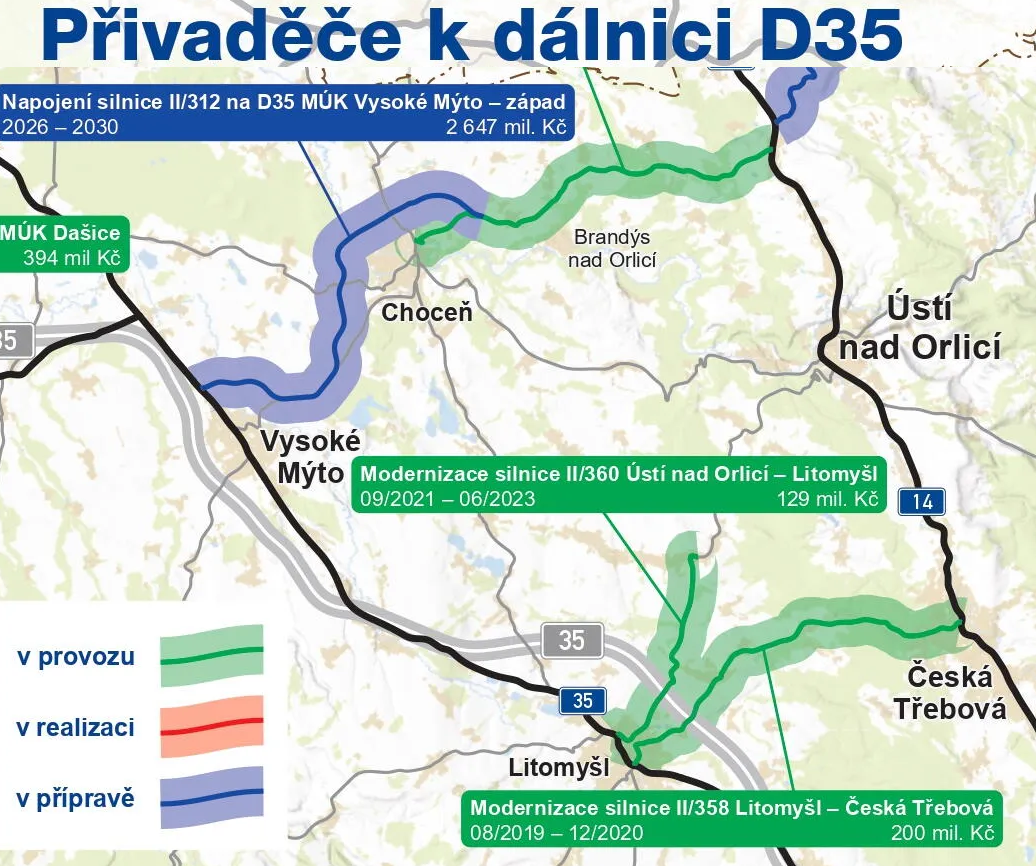
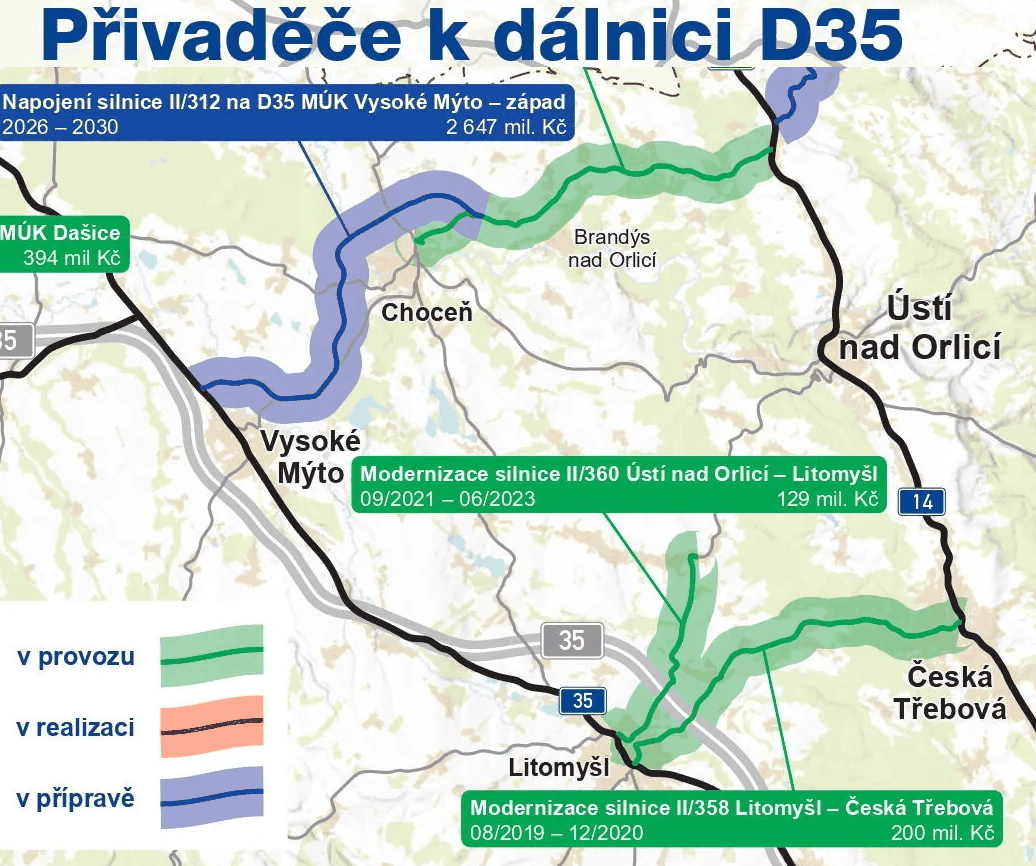
komentare: size the Lilie photographs for the web
The figures went up at their original camera sizes — 14 MB in total, the
worst a 4032x3024 JPEG at 4.2 MB, and two photographs stored as PNG. That
is a slow page on a phone for no gain, since they render at most a column
wide.

Photographs are now capped at 1800px and saved as progressive JPEG q85;
the two PNG photographs became JPEG and their records were repointed. The
D35 map stays PNG, being line art and text, but quantised to 256 colours:
1217 KB to 439 KB with no visible change — checked by eye, not assumed.

14 MB to 4.2 MB. Dimensions are read from the file header at build time,
so the width and height attributes followed automatically.

Changed region(s): [[0.1853, 0.8106, 0.2471, 0.8418], [0.9884, 0.0312, 1.0, 0.0624], [0.1544, 0.8418, 0.1853, 0.873]]

diff --git a/komentare/litomysl-ruze-u-fary/index.html b/komentare/litomysl-ruze-u-fary/index.html
@@ -45,7 +45,7 @@
    "isBasedOn": "https://www.litomysl.cz/lilie/download/2026",
    "description": "Chtěl bych tímto poděkovat všem, kteří se starají o žluté růže pod farou. Tomu záhonu věnovala hodně úsilí moje babička Marie Lorencová. Děkuji též kolegům z městského úřadu, že nám…",
    "image": [
-    "https://meta-analysis.cz/komentare/item-img/2026-07_lavicka-ruze.png"
+    "https://meta-analysis.cz/komentare/item-img/2026-07_lavicka-ruze.jpg"
    ]
   }
  ]
@@ -72,7 +72,7 @@
 <p>Chtěl bych tímto poděkovat všem, kteří se starají o žluté růže pod farou. Tomu záhonu věnovala hodně úsilí moje babička Marie Lorencová. Děkuji též kolegům z městského úřadu, že nám umožnili jako vzpomínku na ni umístit u růží lavičku (kterou vymysleli a nechali vyrobit Iva a Leoš Tupcovi). Je to už více než 3 roky, co babička zemřela. Místo je ale pořád stejně krásné. Sluší se připomenout, co o něm psala babička před lety:</p>
 <blockquote><p>Před 26 lety byli vysláni, aby spravovali naši farnost, dva kněží – otec František Beneš a otec Jiří Štorek. Převzali zpustlý, více než 70 let neopravovaný kostel a podobně zpustlou farní zahradu. Byli ještě mladí a zdraví; nezalekli se toho, co je čeká. Otec František začal hned shánět vše, co bylo třeba zařídit. K tomu vždy jako první nabídl své vlastní pracovité ruce. Přidali se další ochotní a obětaví farníci a opravy kostela i fary se rozběhly.</p><p>Také farní zahrada se proměnila z džungle v užitnou. Otec František vlastnoručně za pomoci pana Mikysky vykopal nehezká křoviska pod zdí farní zahrady, na pozemku města Litomyšle. Po odklizení těchto křovisek se objevil kdysi označený široký záhon. Ten přímo vyzýval k tomu, aby do záhonu byly vysázeny rostliny pro krásu i radost kolemjdoucích. Přidalo se několik dalších pracovitých rukou, staraly se o zahradu, vypěstovaly na ní mimo jiné sadové žluté růže jménem lichtkönigin lucia a vysázely jich dlouhou řadu do záhonu pod zdí farní zahrady; také řadu narcisů, tulipánů i kosatců.</p><p>Tak, jak rozkvétal při opravách kostel, farní budova i zahrada, rozkvetl i záhon pod zdí farní zahrady. Jako první po konci zimy a pro radost kolemjdoucím vykvetl záhon krásných jarních květin a v čase, kdy probíhá festival Smetanova Litomyšl, vykvetla pokaždé v plné kráse dlouhá řada žlutých růží. Je to pastva pro oči každého, kdo kolem prochází, a návštěvníci si záhon s farou často fotí.</p><p>Za těch 26 roků jsme zestárli i my, kteří jsme se s radostí a láskou o záhon starali, a naše síly jsou po 85 letech života téměř u konce. Předáváme tento záhon, který je nyní okopán a ošetřen tak, jak to rostliny vyžadují, do péče majitele pozemku, města Litomyšle. Věříme, že ti, kteří se v našem krásném městě starají o zeleň, budou o tento záhon pečovat dále.</p><p>Za všechny, kteří přiložili ruku k tomuto dílu, Marie Lorencová, rozená Kudrnová.</p></blockquote>
         <figure class="item-fig">
-          <img src="/komentare/item-img/2026-07_lavicka-ruze.png" alt="Modrošedá dřevěná lavička u kamenné zdi, obrostlá keři žlutých růží. Na opěradle je připevněná kovová růže, do sedáku je vyryto „ML 1932–2023“." loading="lazy" decoding="async" width="1858" height="836">
+          <img src="/komentare/item-img/2026-07_lavicka-ruze.jpg" alt="Modrošedá dřevěná lavička u kamenné zdi, obrostlá keři žlutých růží. Na opěradle je připevněná kovová růže, do sedáku je vyryto „ML 1932–2023“." loading="lazy" decoding="async" width="1800" height="810">
         </figure>
       </div>
       <div class="provenance"><p>Poprvé vyšlo v Lilii, měsíčníku města Litomyšle červenec 2026. <a href="https://www.litomysl.cz/lilie/download/2026" rel="external">Původní vydání</a>. Text byl přepsán z tištěného vydání.</p></div>

diff --git a/komentare/litomysl-narodni-liga/index.html b/komentare/litomysl-narodni-liga/index.html
@@ -45,7 +45,7 @@
    "isBasedOn": "https://www.litomysl.cz/soubor/17147377592866666_lilie_2024_5.pdf",
    "description": "Za více než čtvrtstoletí své existence nezažila naše krásná sportovní hala větší zápas než o letošním Velikonočním pondělí. V rozhodující páté bitvě série a za ohlušujícího hukotu přemohli…",
    "image": [
-    "https://meta-analysis.cz/komentare/item-img/2024-05_narodni-liga.jpeg"
+    "https://meta-analysis.cz/komentare/item-img/2024-05_narodni-liga.jpg"
    ]
   }
  ]
@@ -77,7 +77,7 @@
 <p>Od začátku musel mít správce strach, aby hala ještě v úterý ráno stála. Tolik lidí a decibelů v ní nikdy nebylo. Šli jsme do vedení, ale Kadaň záhy otočila na 1:2. Rozhodující moment přišel na konci druhé třetiny, kdy rozhodčí proti nám nařídil trestné střílení. Brankář Jonáš Moravec však předvedl životní zákrok a udržel Litomyšl ve hře. Obrat ve třetí třetině zařídili hlavně naši nejproduktivnější útočníci celého play-off. Nejprve ve 43. minutě Štěpán Švec z výběhu vyrovnal. Potom ve 53. minutě nás Ondřej Pakosta přesnou ranou dostal do vedení. O 3 minuty později na obrovského brankáře Kadaně vyzrál v trestném střílení Michael Smola. Všichni jsme pořád měli v paměti sobotní výbuch z Kadaně. Hráči však bojovali s nadlidským nasazením a přidali ještě 3 góly do prázdné branky. Litomyšl vítězí 7:2!</p>
 <p>I budoucnost florbalu v Litomyšli vypadá skvěle. Třeba: dorostenci letos ovládli II. ligu; přípravka v 60 zápasech prohrála jediný. S postupem do Národní ligy bychom však měli opravit dluh vůči naší hale: informační tabule je ostudně prastará. Nejhorší v celé divizi, což komentovali i rozhodčí a hráči soupeře. Sestoupivší Třebíč, kde se v hale se nikdy nesejde víc než 200 lidí, má velkoplošnou obrazovku s promítáním gólů a profilů hráčů. Důstojnou obrazovku, AI kameru a modernizaci vybavení haly využijí i basketbalisté, volejbalisté a další sportovci.</p>
         <figure class="item-fig">
-          <img src="/komentare/item-img/2024-05_narodni-liga.jpeg" alt="Litomyšlští florbalisté slaví na palubovce postup; za nimi je plná tribuna fanoušků a na zábradlí visí červená vlajka s litomyšlskou lilií." loading="lazy" decoding="async" width="4032" height="3024">
+          <img src="/komentare/item-img/2024-05_narodni-liga.jpg" alt="Litomyšlští florbalisté slaví na palubovce postup; za nimi je plná tribuna fanoušků a na zábradlí visí červená vlajka s litomyšlskou lilií." loading="lazy" decoding="async" width="1800" height="1350">
         </figure>
       </div>
       <div class="provenance"><p>Poprvé vyšlo v Lilii, měsíčníku města Litomyšle květen 2024. <a href="https://www.litomysl.cz/soubor/17147377592866666_lilie_2024_5.pdf" rel="external">Původní vydání</a>. Text byl přepsán z tištěného vydání.</p></div>

diff --git a/komentare/litomysl-florbaliste-zlati-na-turnaji/index.html b/komentare/litomysl-florbaliste-zlati-na-turnaji/index.html
@@ -45,7 +45,7 @@
    "isBasedOn": "https://www.litomysl.cz/soubor/17701067126980528_lilie_2026_2.pdf",
    "description": "Každý leden se v Praze koná turnaj Prague Floorball Cup; na letošní sedmý ročník přijelo přes čtyři tisíce hráčů ze šesti zemí. Rozsahem se jedná o největší a kvalitou nejprestižnější…",
    "image": [
-    "https://meta-analysis.cz/komentare/item-img/2026-02_florbal-pfc-zlato.png"
+    "https://meta-analysis.cz/komentare/item-img/2026-02_florbal-pfc-zlato.jpg"
    ]
   }
  ]
@@ -76,7 +76,7 @@
 <p>Následovali hlavní favorité: Plzeň a Bohemians. Oba týmy jsme znali z minulých let a zatím se nám je nepodařilo porazit. Plzeň hrála tvrdě a krásně vyhrocený zápas jsme zlomili až v posledních minutách. Ani Bohemka nám ve finále nic nedarovala. Ve skvělé atmosféře plné haly jsme si ale vypracovali dvougólový náskok, udrželi ho až do konce a mohli zvednout nad hlavu trofej pro vítěze turnaje.</p>
 <p>Florbal v Litomyšli si můžete kdykoli nezávazně vyzkoušet. Tréninky pro kluky i holky do 10 let jsou v úterý v 15:00 a v pátek ve 13:30 hodin; pro starší děti v pondělí 15:30, středu 15:30, pátek 15:00 hodin. Vždy v městské sportovní hale (za modrou školou). Stačí si přinést sálové boty, pití, kraťasy, tričko. Florbalku trenéři půjčí a též moje děti vás tam rády uvidí.</p>
         <figure class="item-fig">
-          <img src="/komentare/item-img/2026-02_florbal-pfc-zlato.png" alt="Sedm mladých florbalistů v modrých dresech Litomyšle se zlatými medailemi na krku pózuje v hale; drží diplom a zlatou plaketu turnaje PFC." loading="lazy" decoding="async" width="1242" height="993">
+          <img src="/komentare/item-img/2026-02_florbal-pfc-zlato.jpg" alt="Sedm mladých florbalistů v modrých dresech Litomyšle se zlatými medailemi na krku pózuje v hale; drží diplom a zlatou plaketu turnaje PFC." loading="lazy" decoding="async" width="1242" height="993">
         </figure>
       </div>
       <div class="provenance"><p>Poprvé vyšlo v Lilii, měsíčníku města Litomyšle únor 2026. <a href="https://www.litomysl.cz/soubor/17701067126980528_lilie_2026_2.pdf" rel="external">Původní vydání</a>. Text byl přepsán z tištěného vydání.</p></div>

diff --git a/komentare/litomysl-mladi-florbaliste/index.html b/komentare/litomysl-mladi-florbaliste/index.html
@@ -76,7 +76,7 @@
 <p>Přípravku prověřil až turnaj Prague Floorball Cup. Skupinu vyhráli, i když se pořádně nadřeli proti pražským týmům Chodov a Butchis. Ve finálové skupině už po boji nestačili na Bratislavu a Olomouc, a berou tak cenný bronz. Turnaj ukázal, že nejmladší florbalisté Litomyšle se mohou směle měřit se špičkovými týmy střední Evropy. Přidají-li ještě v tréninku, mohou se odvážit na nejtěžší světový turnaj dětí ve Švédsku. Kdo si chce florbal vyzkoušet, má šanci na zářijových trénincích. V Litomyšli dává dětem florbal příležitost utkávat se s týmy z celé republiky i zahraničí. Florbal hrají i holky: naše Lucinka v 6 letech odehrála hromadu turnajů a dala za Litomyšl i nějaké góly. S florbalem není problém začít i později, třeba až ve 12 letech.</p>
 <p>Florbalisté vyhlíží novou sezonu, v níž budou muži poprvé hrát národní ligu. Tam je snem litomyšlského fanouška vidět jednou hrát spolu v dresu s lilií před bouřící plnou halou naše nejslavnější odchovance: bratry Pakostovy. Dočkáme se? Ondřej se lvím podílem zasloužil o postup do „národky“. Přemek, držitel bronzové medaile z mistrovství světa juniorů, byl v uplynulé sezoně kapitánem superligových Pardubic. Těšíme se ale také na další úspěchy naší mládeže od přípravky po juniory!</p>
         <figure class="item-fig">
-          <img src="/komentare/item-img/2024-06_florbal-bronz.jpg" alt="Nejmladší florbalisté s bronzovými medailemi na krku stojí v trávě vedle velkého průsvitného písmene G a společně zvedají nad hlavu kovovou trofej." loading="lazy" decoding="async" width="2000" height="1334">
+          <img src="/komentare/item-img/2024-06_florbal-bronz.jpg" alt="Nejmladší florbalisté s bronzovými medailemi na krku stojí v trávě vedle velkého průsvitného písmene G a společně zvedají nad hlavu kovovou trofej." loading="lazy" decoding="async" width="1800" height="1201">
           <figcaption>Foto: pořadatelé turnaje</figcaption>
         </figure>
       </div>

diff --git a/komentare/litomysl-ohlednuti-za-rokem-florbalu/index.html b/komentare/litomysl-ohlednuti-za-rokem-florbalu/index.html
@@ -75,7 +75,7 @@
 <p>V minulém roce též prvně v historii začali hrát mladší žáci (kluci a holky pod 13 let) florbal na velkém hřišti s pěti hráči v poli. Přechod na 5+1 už v mladším věku je světovým trendem, umožňuje rychlejší individuální rozvoj hráčů a pro diváky přidává na atraktivitě. Náš tým jako nováček začínal v nejnižším výkonnostním koši ligy, ale postupně se propracoval až do druhého nejvyššího.</p>
 <p>Píšu o florbale, neb florbal hrají mé děti. Mám ale radost, že i další sporty u nás jsou skvěle vedeny (sleduji basket, volejbal, hokej, atletiku, fotbal). Na tak malé město mají děti bohatý výběr. Kluby spolupracují a nevyčítají si přestupy a peníze, jak to známe odjinud. Děkuji všem, kdo pomáhají dětem sportovat. Jinak děti přicházejí o návyky disciplíny, práce v týmu, euforii z vítězství, skousnutí porážky, zdravý tělesný vývoj. Přeji všem litomyšlským sportům, aby se jim letos podařilo přilákat víc hráčů.</p>
         <figure class="item-fig">
-          <img src="/komentare/item-img/2025-01_florbal-tym-u-branky.jpg" alt="Skupinové foto litomyšlského florbalového týmu v modrých dresech s bílou lilií. Hráči klečí a stojí před brankou v hale, kolem nich leží florbalové hole." loading="lazy" decoding="async" width="2200" height="1437">
+          <img src="/komentare/item-img/2025-01_florbal-tym-u-branky.jpg" alt="Skupinové foto litomyšlského florbalového týmu v modrých dresech s bílou lilií. Hráči klečí a stojí před brankou v hale, kolem nich leží florbalové hole." loading="lazy" decoding="async" width="1800" height="1176">
           <figcaption>Tutéž fotografii autor poslal i k příspěvku z října 2025.</figcaption>
         </figure>
       </div>

diff --git a/komentare/litomysl-podporme-mlade-florbalisty/index.html b/komentare/litomysl-podporme-mlade-florbalisty/index.html
@@ -83,7 +83,7 @@
 <p>Ať už se děti rozhodnou pro jakýkoli sport a vydrží u něj, bude to nenahraditelná investice do jejich dalšího života. Obzvláště to platí u sportů kolektivních, kde se učí pracovat v týmu. Sportovní kolektiv má na děti dobrý vliv: konkrétně u florbalové party mohu garantovat, že třeba s návykovými látkami nebudou problémy ani ve starších kategoriích.</p>
 <p>V Litomyšli je nabídka kvalitních sportovních kroužků veliká – kromě florbalu mám dobré zkušenosti a mohu doporučit plavání, volejbal, basket, hokej, fotbal. Povede-li se motivovat k pravidelnému sportování alespoň třetinu dětí v Litomyšli, které dosud volný čas tráví hlavně s mobilem v ruce, budeme mít silné týmy ve všech sportech a hlavně zdravější novou generaci s pevným vztahem k našemu městu.</p>
         <figure class="item-fig">
-          <img src="/komentare/item-img/2025-01_florbal-tym-u-branky.jpg" alt="Skupinové foto litomyšlského florbalového týmu v modrých dresech s bílou lilií. Hráči klečí a stojí před brankou v hale, kolem nich leží florbalové hole." loading="lazy" decoding="async" width="2200" height="1437">
+          <img src="/komentare/item-img/2025-01_florbal-tym-u-branky.jpg" alt="Skupinové foto litomyšlského florbalového týmu v modrých dresech s bílou lilií. Hráči klečí a stojí před brankou v hale, kolem nich leží florbalové hole." loading="lazy" decoding="async" width="1800" height="1176">
         </figure>
       </div>
       <div class="provenance"><p>Poprvé vyšlo v Lilii, měsíčníku města Litomyšle říjen 2025. <a href="https://www.litomysl.cz/soubor/17593270283792379_lilie_2025_10.pdf" rel="external">Původní vydání</a>. Text byl přepsán z tištěného vydání.</p></div>

diff --git a/komentare/litomysl-florbal-2025/index.html b/komentare/litomysl-florbal-2025/index.html
@@ -75,7 +75,7 @@
 <p>Děkuji rodičům a přátelům za podporu, a to i na domácích turnajích. Turnaje mládeže v Litomyšli mají bez přehánění atmosféru podobnou zápasům nejvyšší ligy mužů. Přijďte se někdy podívat a zakřičet si LIIIIII-TO-MYYŠL! Bubny budou připraveny, termíny naleznete na facebookové stránce Florbalu Litomyšl. V kiosku je k dispozici občerstvení včetně dobrého piva (díky Michale!). Florbalisté rádi mezi sebe přivítají nové členy jakéhokoli věku; v září bude řada možností si hru vyzkoušet.</p>
 <p>Děkuji Petru Stolínovi, který nově (a skvěle) trénuje dorostence. Děkuji také paní ředitelce 3. základní školy a správcům haly za trpělivost s florbalisty a celkově dobrou práci, kterou oceňují návštěvníci turnajů z celé republiky.</p>
         <figure class="item-fig">
-          <img src="/komentare/item-img/2025-05_florbal-vlajka.jpg" alt="Florbalisté Litomyšle v modrých dresech pózují venku před budovou; uprostřed drží červenou vlajku s bílou litomyšlskou lilií." loading="lazy" decoding="async" width="2682" height="1783">
+          <img src="/komentare/item-img/2025-05_florbal-vlajka.jpg" alt="Florbalisté Litomyšle v modrých dresech pózují venku před budovou; uprostřed drží červenou vlajku s bílou litomyšlskou lilií." loading="lazy" decoding="async" width="1800" height="1197">
         </figure>
       </div>
       <div class="provenance"><p>Poprvé vyšlo v Lilii, měsíčníku města Litomyšle květen 2025. <a href="https://www.litomysl.cz/soubor/17461763345065400_lilie_2025_5.pdf" rel="external">Původní vydání</a>. Text vychází z autorova rukopisu; tištěná verze se může v detailech lišit.</p></div>

diff --git a/komentare/litomysl-prague-floorball-cup/index.html b/komentare/litomysl-prague-floorball-cup/index.html
@@ -76,7 +76,7 @@
 <p>V dalším zápase jsme si v odvetě poradili s Chodovem 3:0. Čekaly nás České Budějovice, proti kterým si kluci s chutí zastříleli. Ale minutu před koncem přišla zpráva, že Lotyši nečekaně vysoko porazili Chodov. V tu chvíli jsme vedli 7:1 a potřebovali k 5. místu další gól. Naskočila speciální formace. Rozhodující gól vstřelil vteřinky před koncem z úniku Fíla!</p>
 <p>Na turnaj pojedeme zase v květnu. Opět budeme ze všech klubů reprezentovat nejmenší město, které ale máme nejradši.</p>
         <figure class="item-fig">
-          <img src="/komentare/item-img/2025-02_florbal-vlajky-zemi.jpg" alt="Litomyšlští florbalisté slaví v hale s holemi zdviženými nad hlavu. Na stěně za nimi visí vlajky Lotyšska, Polska, Slovenska, Česka, Německa a Rakouska." loading="lazy" decoding="async" width="2548" height="1723">
+          <img src="/komentare/item-img/2025-02_florbal-vlajky-zemi.jpg" alt="Litomyšlští florbalisté slaví v hale s holemi zdviženými nad hlavu. Na stěně za nimi visí vlajky Lotyšska, Polska, Slovenska, Česka, Německa a Rakouska." loading="lazy" decoding="async" width="1800" height="1217">
         </figure>
       </div>
       <div class="provenance"><p>Poprvé vyšlo v Lilii, měsíčníku města Litomyšle únor 2025. <a href="https://www.litomysl.cz/soubor/17383139261602303_lilie_2025_2.pdf" rel="external">Původní vydání</a>. Text byl přepsán z tištěného vydání.</p></div>

diff --git a/komentare/src/2026-07-01_litomysl-ruze-u-fary.md b/komentare/src/2026-07-01_litomysl-ruze-u-fary.md
@@ -11,7 +11,7 @@ byline: "Tomáš Havránek"
 source: "image"
 word_count: "391"
 body_note: "Rubrika Dopisy čtenářů. Delší citovaná pasáž je text babičky autora, Marie Lorencové, rozené Kudrnové."
-images: "2026-07_lavicka-ruze.png"
+images: "2026-07_lavicka-ruze.jpg"
 image_alt: "Modrošedá dřevěná lavička u kamenné zdi, obrostlá keři žlutých růží. Na opěradle je připevněná kovová růže, do sedáku je vyryto „ML 1932–2023“."
 ---
 

diff --git a/komentare/src/2024-05-01_litomysl-narodni-liga.md b/komentare/src/2024-05-01_litomysl-narodni-liga.md
@@ -10,7 +10,7 @@ byline: "Tomáš Havránek"
 source: "image"
 word_count: "508"
 body_note: "Standalone signed piece at the top of the page; body runs across all three columns around a photograph."
-images: "2024-05_narodni-liga.jpeg"
+images: "2024-05_narodni-liga.jpg"
 image_alt: "Litomyšlští florbalisté slaví na palubovce postup; za nimi je plná tribuna fanoušků a na zábradlí visí červená vlajka s litomyšlskou lilií."
 ---
 

diff --git a/komentare/src/2026-02-01_litomysl-florbaliste-zlati-na-turnaji.md b/komentare/src/2026-02-01_litomysl-florbaliste-zlati-na-turnaji.md
@@ -9,7 +9,7 @@ headline: "Mladí florbalisté zlatí na největším evropském turnaji!"
 byline: "Tomáš Havránek"
 source: "image"
 word_count: "413"
-images: "2026-02_florbal-pfc-zlato.png"
+images: "2026-02_florbal-pfc-zlato.jpg"
 image_alt: "Sedm mladých florbalistů v modrých dresech Litomyšle se zlatými medailemi na krku pózuje v hale; drží diplom a zlatou plaketu turnaje PFC."
 ---
 
